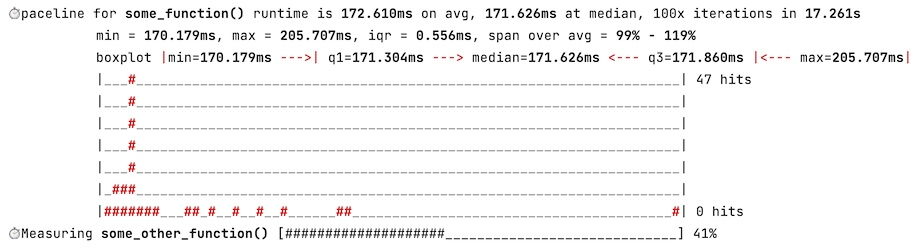
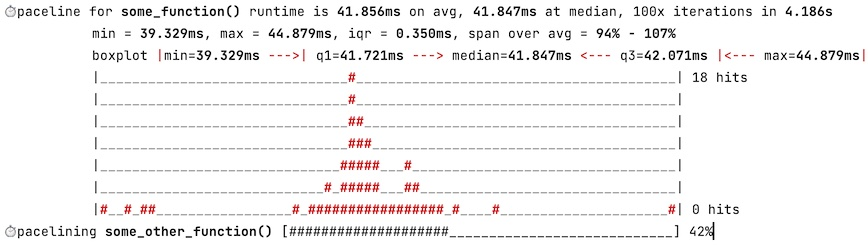
initial commit

diff --git a/paceline.py b/paceline.py
@@ -91,6 +91,7 @@ def paceline(function=None, *, iterations: int = 1, skip: bool = False, progress
 
             min_, max_, sum_, mean = 0.0, 0.0, 0.0, 0.0
             median, q1, q3, iqr = 0.0, 0.0, 0.0, 0.0
+            duration = 0.0
             if iterations == 1:
                 median = durations[0]
                 sum_ = median
@@ -101,6 +102,7 @@ def paceline(function=None, *, iterations: int = 1, skip: bool = False, progress
                 max_ = max(durations)
                 sum_ = sum(durations)
                 mean = sum_/len(durations)
+                duration = mean
 
                 # median & quartiles
                 n = len(durations)
@@ -180,8 +182,13 @@ def paceline(function=None, *, iterations: int = 1, skip: bool = False, progress
                             print(row + f"| {caption}")
 
             if return_metrics:
+                # round to nano-seconds
+                duration = round(duration, 9)
+                mean, min_, max_, sum_ = round(mean, 9), round(min_, 9), round(max_, 9), round(sum_, 9)
+                median, q1, q3, iqr = round(median, 9), round(q1, 9), round(q3, 9), round(iqr, 9)
                 if iterations == 1:
-                    metrics = {"function": function.__name__, "iterations": 1, "uom": "s", "paceline": duration}
+                    metrics = {"function": function.__name__, "iterations": 1, "uom": "s",
+                               "paceline": duration, "min": min_, "max": max_, "total-time": sum_}
                 else:
                     metrics = {"function": function.__name__, "iterations": iterations, "uom": "s",
                                "paceline": mean, "min": min_, "max": max_, "total-time": sum_,

diff --git a/demo.py b/demo.py
@@ -28,7 +28,7 @@ some_function()
 
 # 3. If no decorator is defined, you to wrap your function into the paceline
 #    as shown below. From thereon all calls to the function will get measured...
-some_other_function = paceline(some_other_function)
+some_other_function = paceline(some_other_function, iterations=1000)
 print(f"\nresult = {some_other_function()}")
 
 # 4. ...until you (optionally) unwrap the function from the decorator again, like this:
@@ -46,4 +46,4 @@ result, metrics = some_other_function()  # here we get the results and the metri
 print(f"result = {result}")
 pprint.pprint(metrics)
 
-print("\nThanks for testing or using...")
+print("\nThanks for testing, maybe using...")
